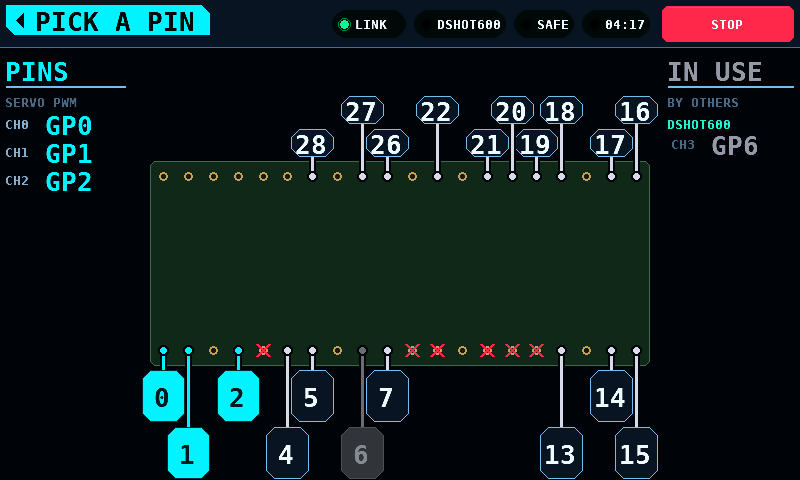
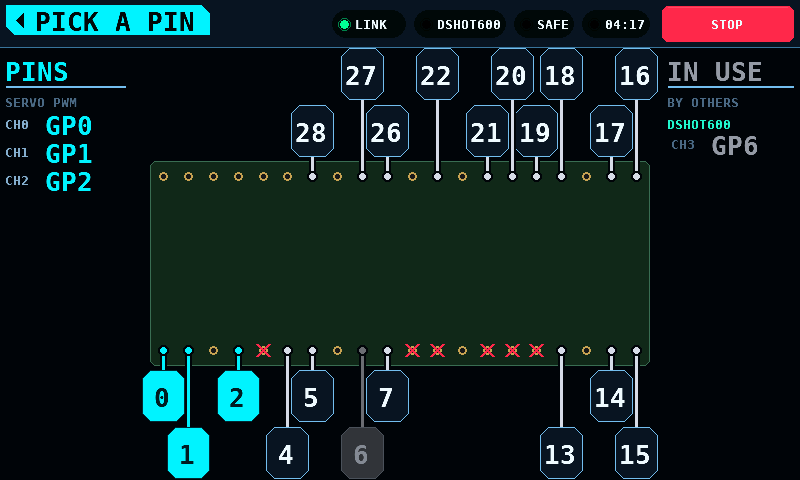
Give the top buttons the room they have, and a soldered board its picture
Two of the review's findings were bugs.

The room above the board is what board_box() reports and no less: the router
hands a screen its own body, so the band is already out of these coordinates.
Taking it off again shrank every top-row button from 52 pixels to 28 -- half
a fingertip, on the screen whose whole argument is that a pad is too small to
press.

And a soldered board showed no buttons at all, which takes the screen's
answer away on the board that most needs it: an operator holding one still
has to find where GP7 is. Its pins are drawn the way a pin another protocol
holds is -- shown, and not offered -- and outbind_toggle() is what refuses
the change, as it already did.

The comment on the panel's artwork buffer said it is held while the screen is
up. It is held until the next photograph is asked for, which outlives a
visit; the comment now says so, and says why that is the trade rather than a
release path that has to be got right.

Changed region(s): [[0.3438, 0.0938, 0.8438, 0.3438]]

diff --git a/shared/ui/picker_screen.c b/shared/ui/picker_screen.c
@@ -169,7 +169,15 @@ static bool button_rect(int i, gfx_rect_t *out)
     if (pins == NULL || i < 0 || i >= (int)n || bd == NULL) {
         return false;
     }
-    if (pins[i].reserved || bd->fixed) {
+    /*
+     * A reserved pin gets no button; a soldered board's pins do.
+     *
+     * Refusing them there would take the screen's answer away on exactly the
+     * board that most needs it: an operator holding one still has to find
+     * where GP7 is, and outbind_toggle() is what refuses the change. They are
+     * drawn as held instead, which is what they are.
+     */
+    if (pins[i].reserved) {
         return false;
     }
     int px, py;
@@ -196,7 +204,13 @@ static bool button_rect(int i, gfx_rect_t *out)
 
     int bx, by, bw, bh;
     board_box(&bx, &by, &bw, &bh);
-    const int th = (((top ? (by - UI_BAND_H) : (SCREEN_H - (by + bh)))
+    /*
+     * The room above the board is `by` and no less: the router hands a screen
+     * its own body, so the band is already out of these coordinates and
+     * taking it off again would shrink every top button by the height of a
+     * band it is not sharing the screen with.
+     */
+    const int th = (((top ? by : (SCREEN_H - (by + bh)))
                      - GAP) - (TIERS - 1) * TGAP) / TIERS;
     const int ty = top ? (by - GAP - (tier + 1) * th - tier * TGAP)
                        : (by + bh + GAP + tier * (th + TGAP));
@@ -286,6 +300,8 @@ static void draw_pads_and_buttons(gfx_canvas_t *c, const int8_t *chan)
     const outbind_pin_t *pins = outbind_pins(board);
     const uint8_t n = outbind_pin_count(board);
     const uint8_t proto = (s.bind.proto < OUTBIND_PROTOS) ? s.bind.proto : 0u;
+    const outbind_board_t *bd = outbind_board(board);
+    const bool locked = (bd != NULL) && bd->fixed;
 
     for (int i = 0; i < (int)n; ++i) {
         int px, py;
@@ -293,7 +309,9 @@ static void draw_pads_and_buttons(gfx_canvas_t *c, const int8_t *chan)
 
         const uint8_t held = outbind_group_of(&s.bind, (uint8_t)i);
         const bool on    = (held != 0u && held == proto);
-        const bool other = (held != 0u && held != proto);
+        /* A soldered board's pins are nobody's to press, so they are drawn
+         * the way a pin another protocol holds is: shown, and not offered. */
+        const bool other = (held != 0u && held != proto) || locked;
 
         if (pins[i].reserved) {
             cross(c, px, py, UI_DANGER);

diff --git a/firmware/panel/main/main.c b/firmware/panel/main/main.c
@@ -811,7 +811,13 @@ static void art_keep_task(void *arg)
  * Read rather than mapped: art_store_read() checks the payload against the
  * checksum the header carries, so flash that decayed since it was written is
  * a board drawn from its outline rather than a picture that is quietly
- * wrong. The buffer is held while the screen is up and is the only copy.
+ * wrong.
+ *
+ * One buffer, freed when the next photograph is asked for rather than when
+ * the screen closes -- so it outlives a visit and is reused by the following
+ * one. Two hundred kilobytes of PSRAM held between visits is worth less than
+ * a release path that has to be got right; what must not happen is two of
+ * them, and asking always frees before it allocates.
  */
 static uint8_t *s_artshow;
 

diff --git a/shared/ui/include/picker_screen.h b/shared/ui/include/picker_screen.h
@@ -15,7 +15,9 @@
  * Where the pads are comes from the board, not from this file: the shape page
  * carries the outline, the pitch and the corner pad 1 sits at, and
  * outbind_pad_xy() turns a pad number into a position on it. A board that
- * does not say is not drawn, and the outputs screen still offers its pins.
+ * does not carry a shape page is not drawn at all, because a picture from a
+ * guessed one points at the wrong pad as confidently as the right one; its
+ * pins are still offered on the outputs screen.
  *
  * The photograph is optional in the same way. With one, the board on screen
  * is the board in the operator's hands; without one, its outline and pads are

diff --git a/STATUS.md b/STATUS.md
@@ -218,7 +218,7 @@ chrome-cached screen to 2,000.
 | `shared/ui/log_viewer_screen.c` | 681 | 621 | 91.2% |
 | `shared/ui/settings_screen.c` | 269 | 257 | 95.5% |
 | `shared/ui/outputs_screen.c` | 206 | 204 | 99.0% |
-| `shared/ui/picker_screen.c` | 274 | 269 | 98.2% |
+| `shared/ui/picker_screen.c` | 276 | 271 | 98.2% |
 | `shared/settings/settings.c` | 131 | 125 | 95.4% |
 | `shared/logfile/log_numbers.c` | 393 | 371 | 94.4% |
 | `shared/logfile/log_csv.c` | 571 | 543 | 95.1% |
@@ -251,7 +251,7 @@ chrome-cached screen to 2,000.
 | `shared/outputs/out_bind.c` | 408 | 396 | 97.1% |
 | `shared/bench/telemetry_sim.c` | 47 | 44 | 93.6% |
 | `shared/bench/log_writer.c` | 43 | 40 | 93.0% |
-| **total** | **8877** | **8441** | **95.1%** |
+| **total** | **8879** | **8443** | **95.1%** |
 
 _Generated by `tools/coverage.py`; CI runs `--check` and fails on drift._
 <!-- coverage:end -->
